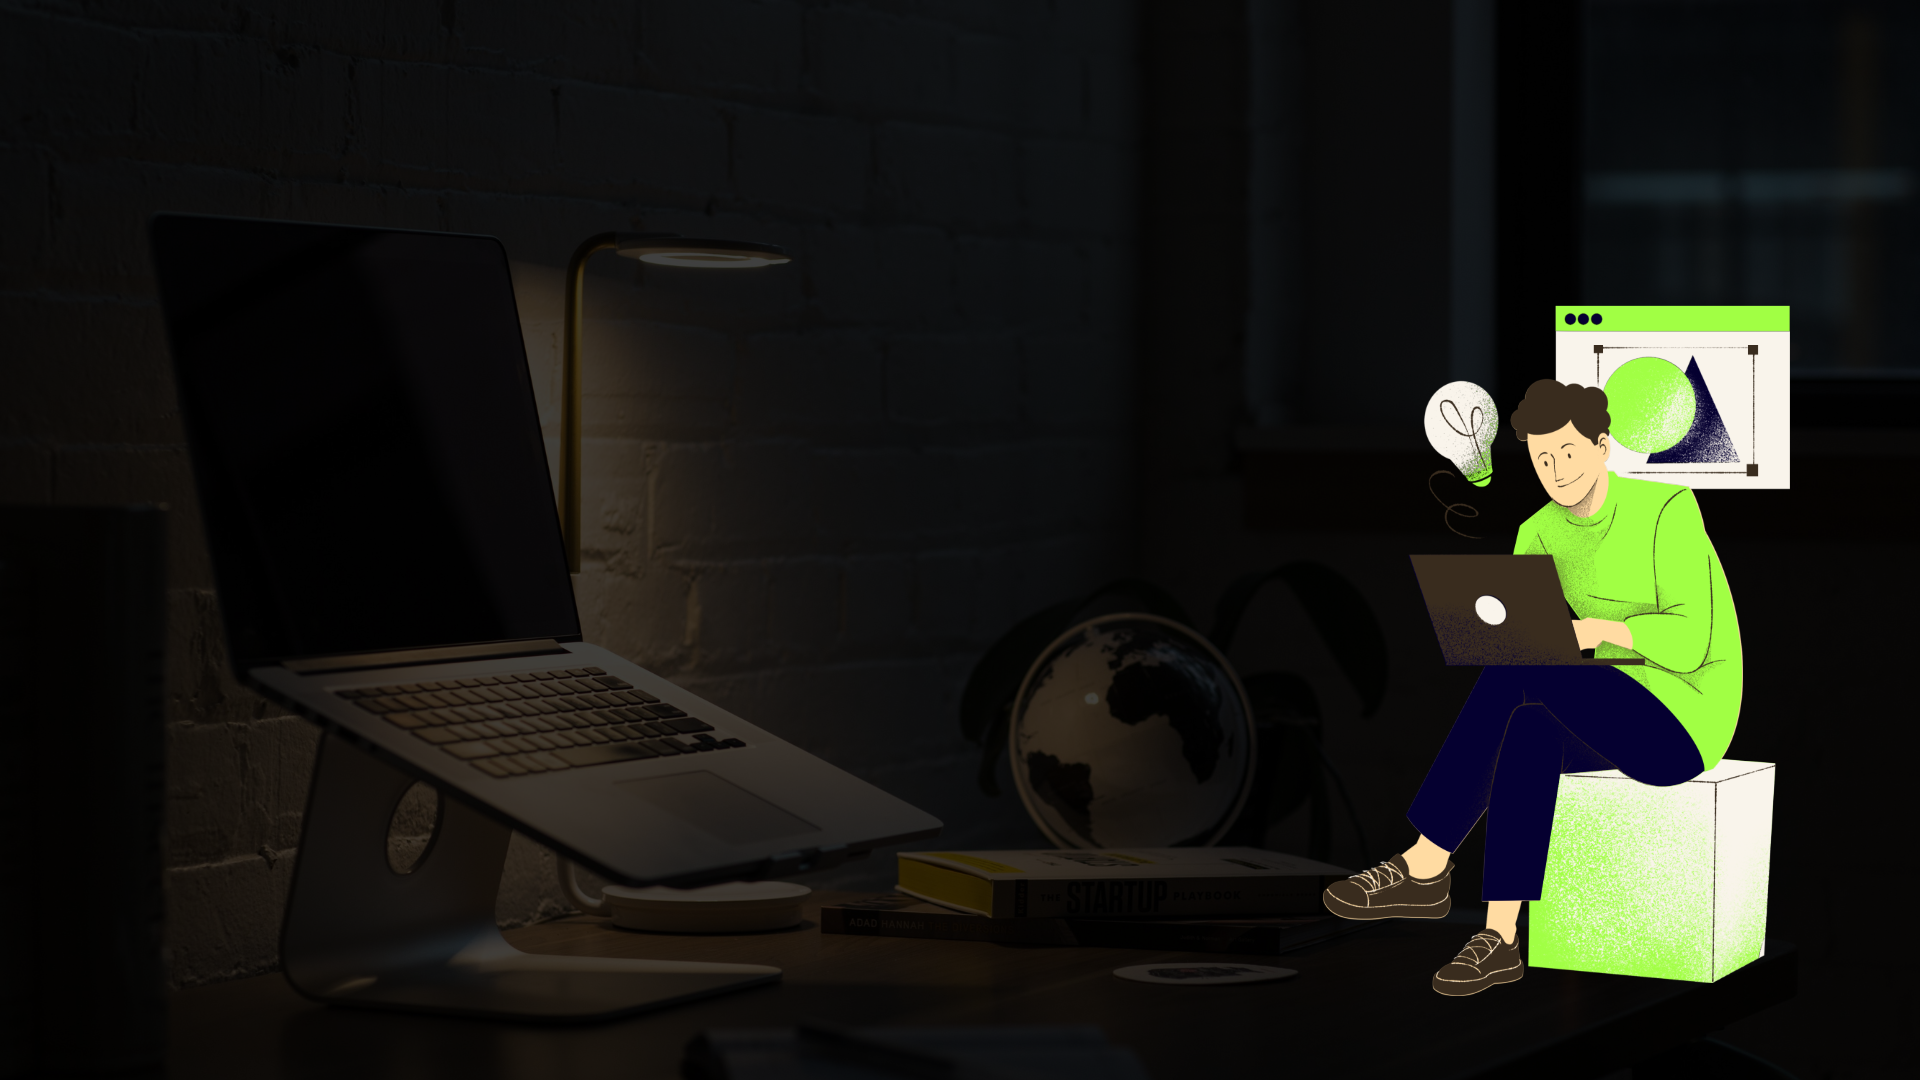
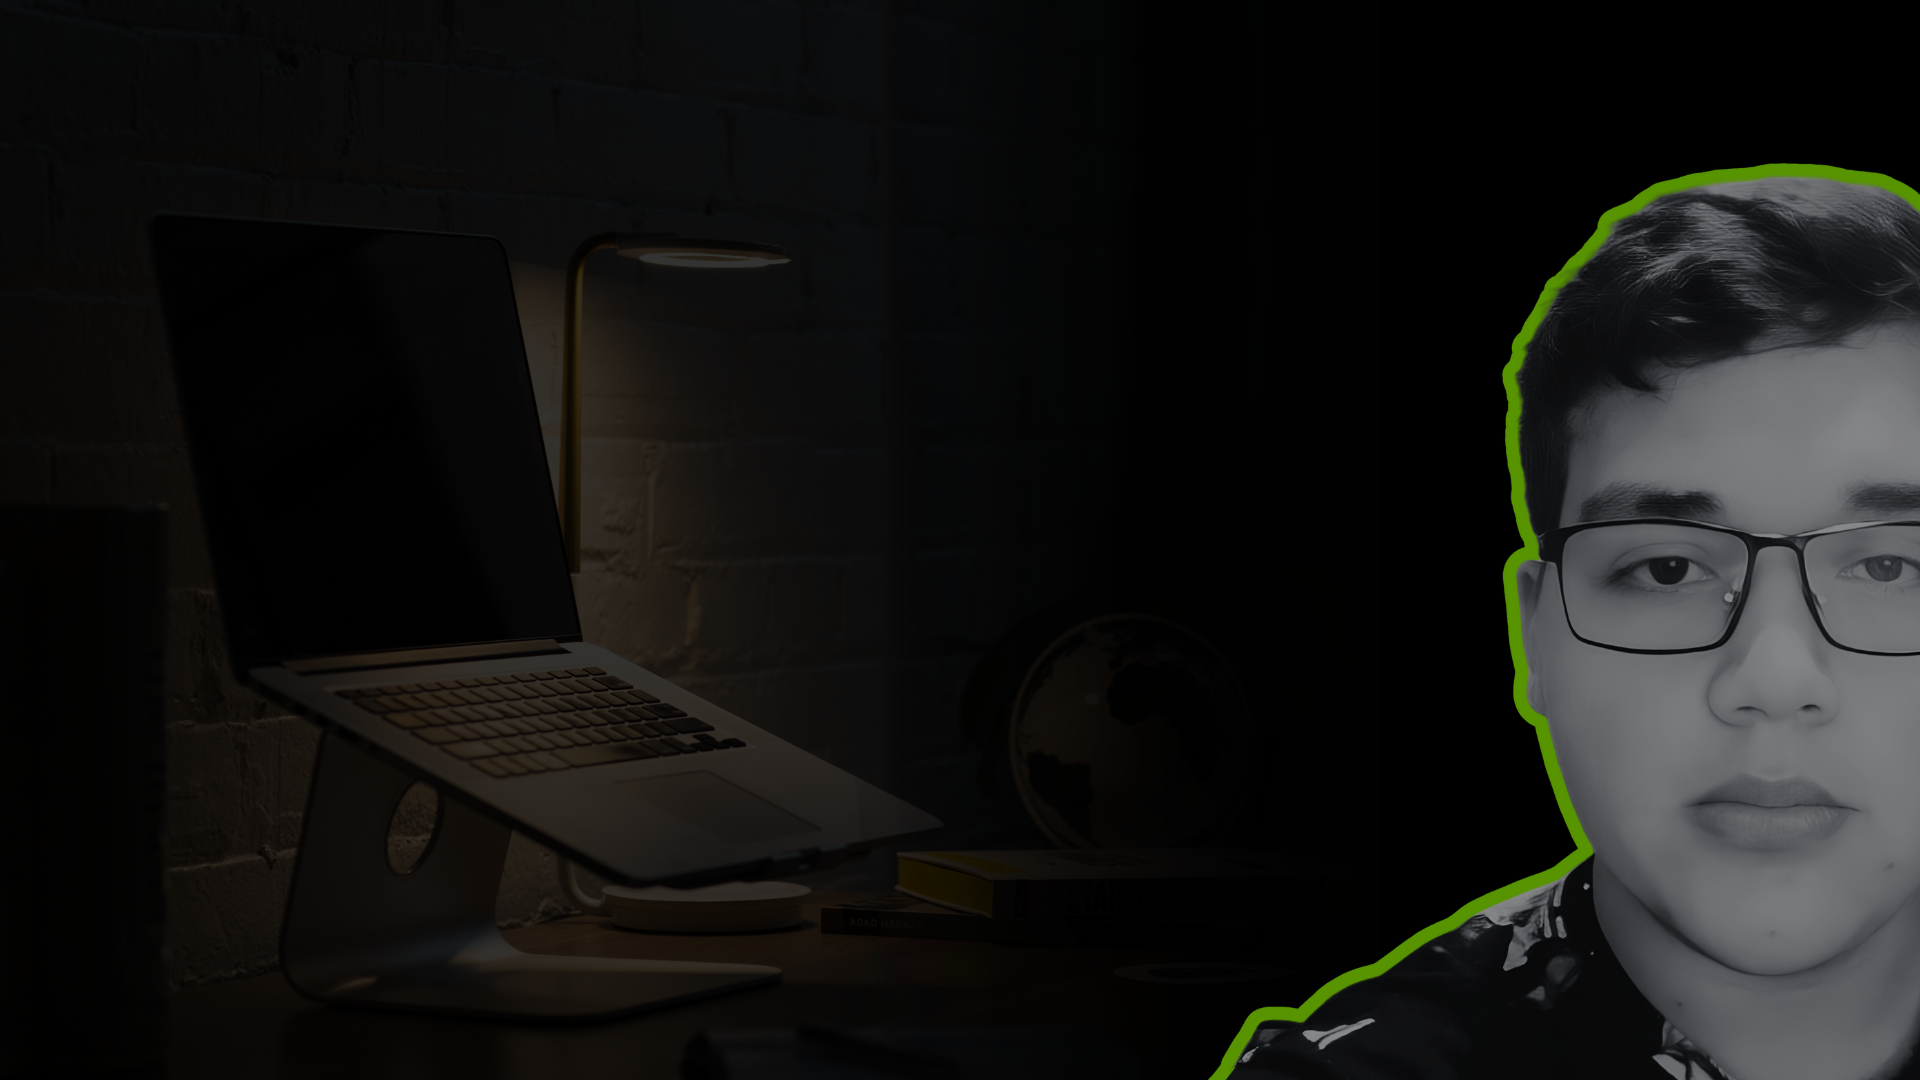
layout adjustments

Changed region(s): [[0.5, 0.0, 1.0, 1.0], [0.5312, 0.55, 0.5938, 0.7333]]

diff --git a/src/app/modules/portifolio/pages/presentation/presentation.component.scss b/src/app/modules/portifolio/pages/presentation/presentation.component.scss
@@ -1,7 +1,7 @@
 @import '../../colors';
 
 .container-main {
-  background: linear-gradient(to bottom, rgba(30, 31, 34, 0.68), rgb(0, 0, 0)),
+  background: linear-gradient(to bottom, rgba(30, 31, 34, 0), rgba(0, 0, 0, 0)),
   url("/assets/banner-presentation.png") no-repeat; // center center  fixed
   background-size: cover;
   height: 100vh;
@@ -76,7 +76,7 @@
 @media (max-width: 500px){
   .container-main {
     background: linear-gradient(to bottom, rgb(0, 0, 0), rgba(0, 0, 0, 0.47)),
-    url("/assets/banner-presentation.png") no-repeat center center fixed;
+    url("/assets/banner-presentation-responsive.png") no-repeat center center fixed;
     background-size: cover;
     height: 120vh;
 

diff --git a/src/app/modules/portifolio/pages/presentation/presentation.component.html b/src/app/modules/portifolio/pages/presentation/presentation.component.html
@@ -16,7 +16,7 @@
       </div>
 
       <div class="container-main__git">
-        <img (click)="scrollToBottom()" width="100px" style="cursor: pointer" src="/assets/gif/gif-down.gif">
+        <img (click)="scrollToBottom()" width="60px" style="cursor: pointer" src="/assets/svgs/down.svg">
       </div>
     </div>
   </section>
